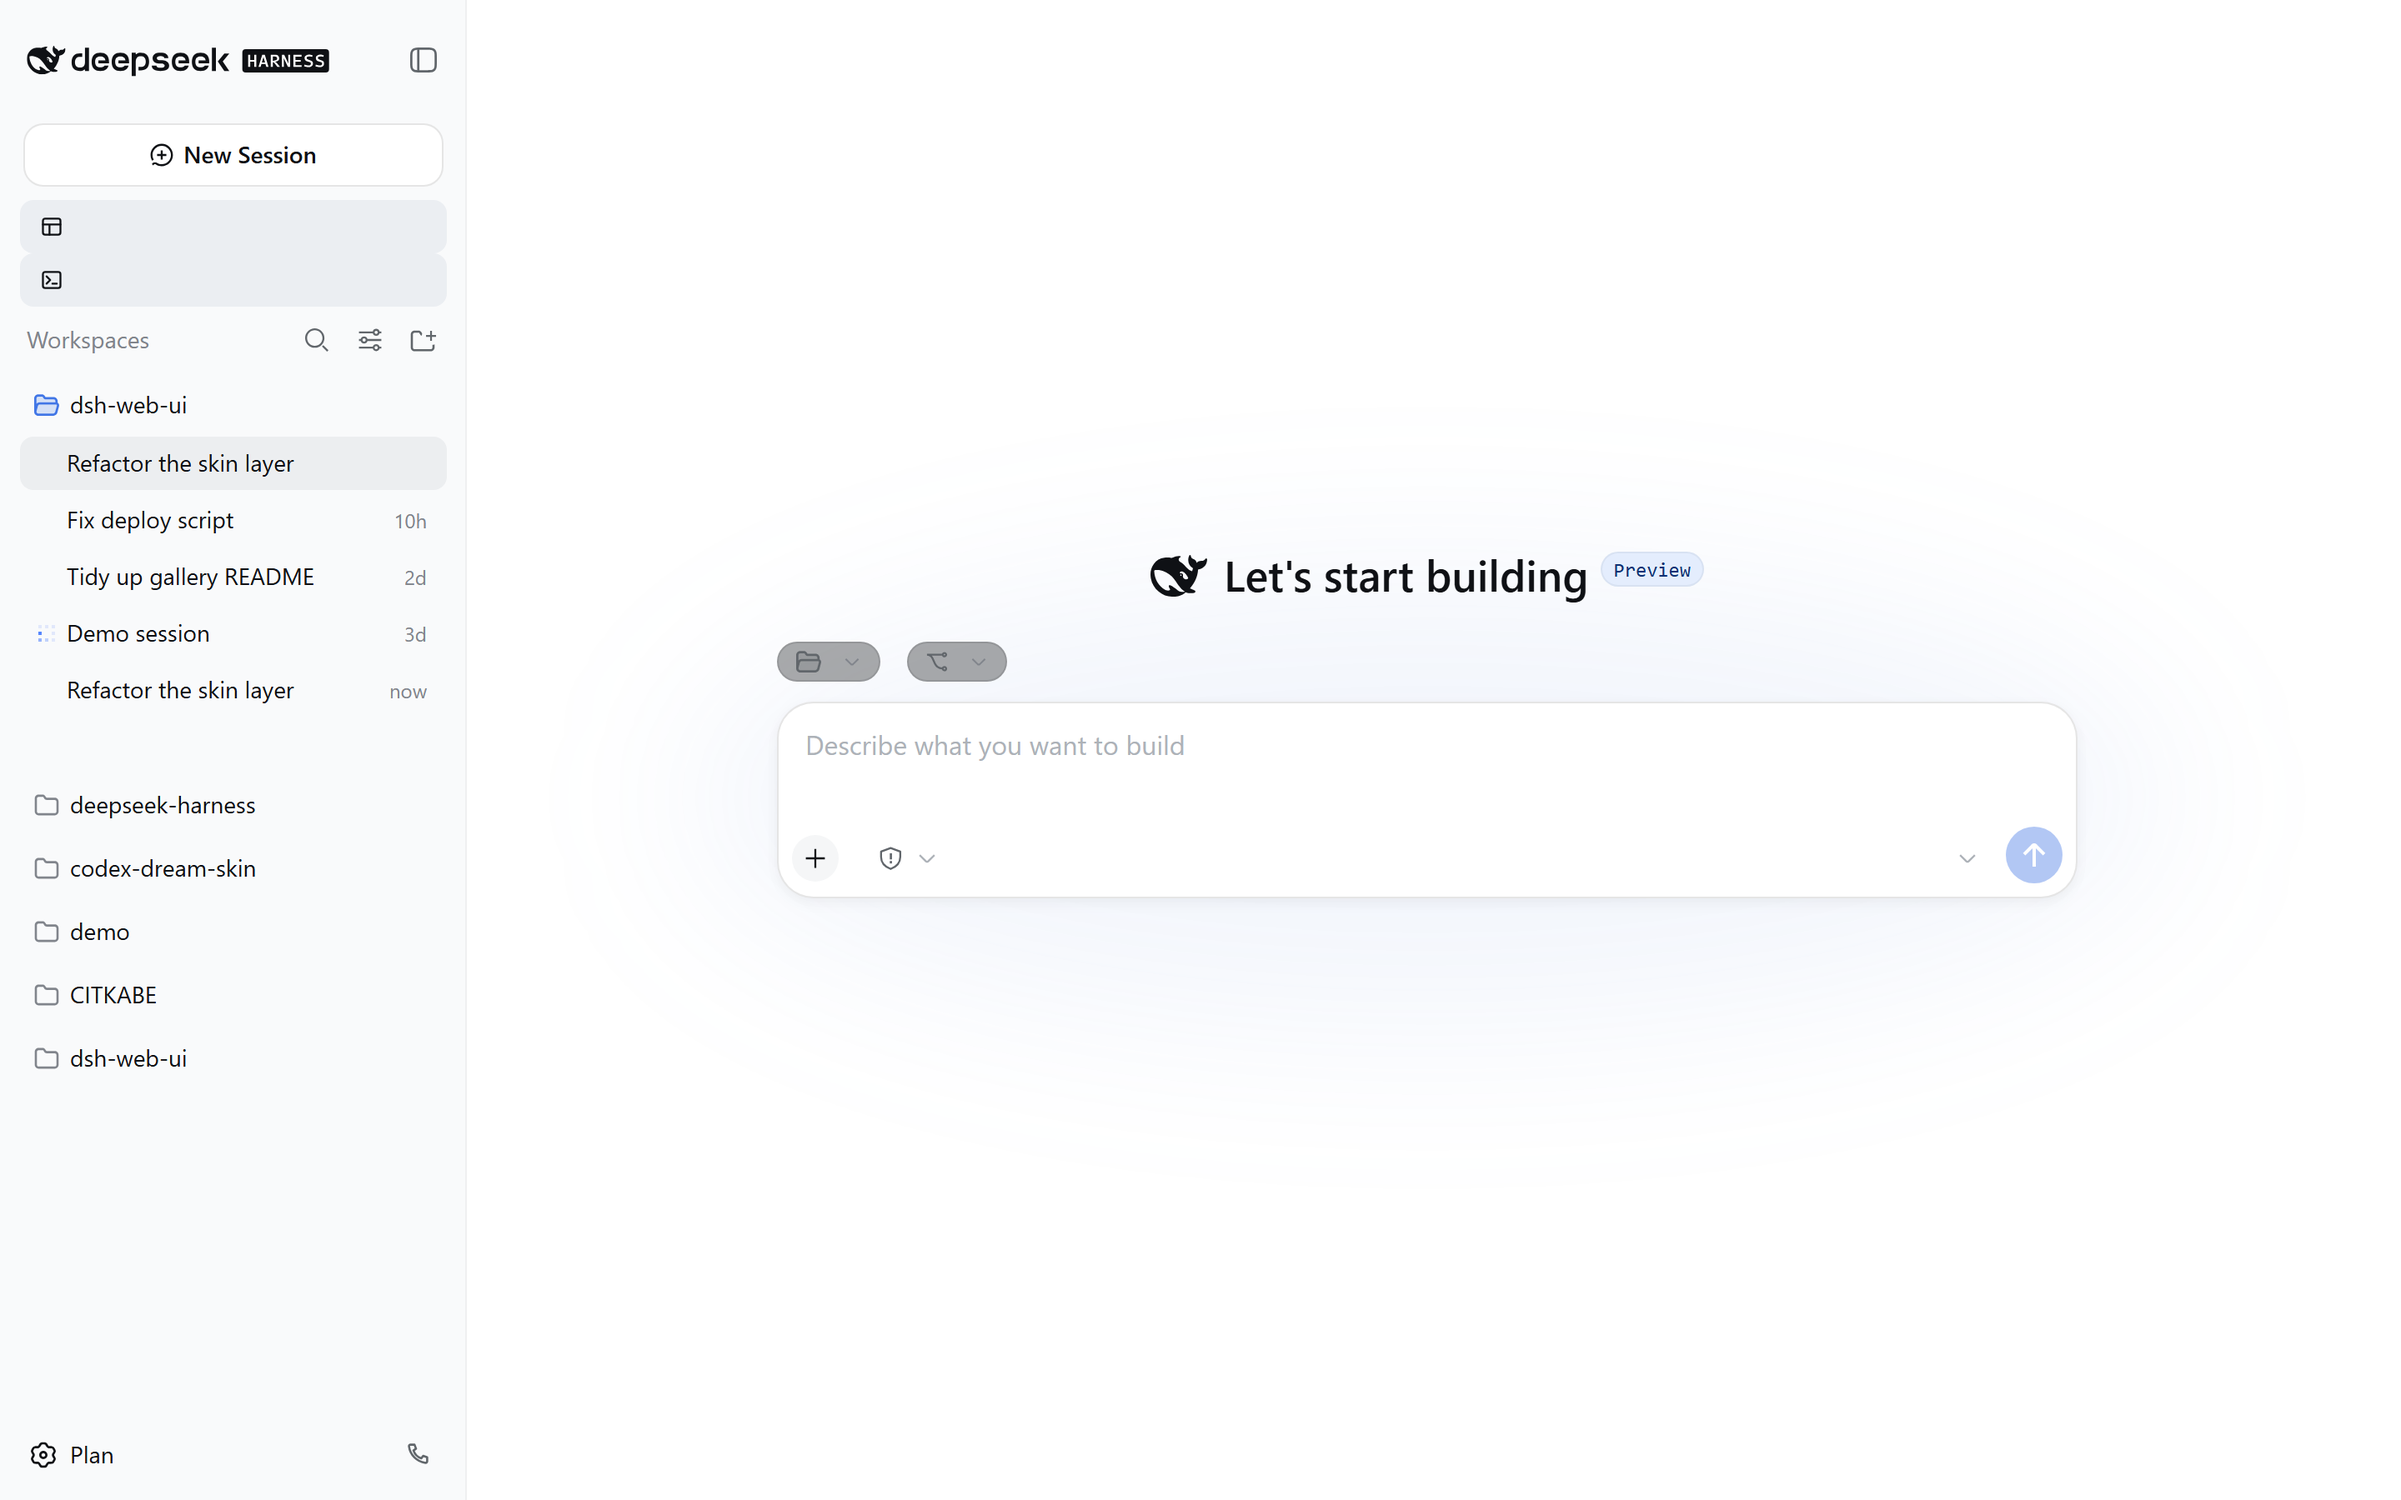
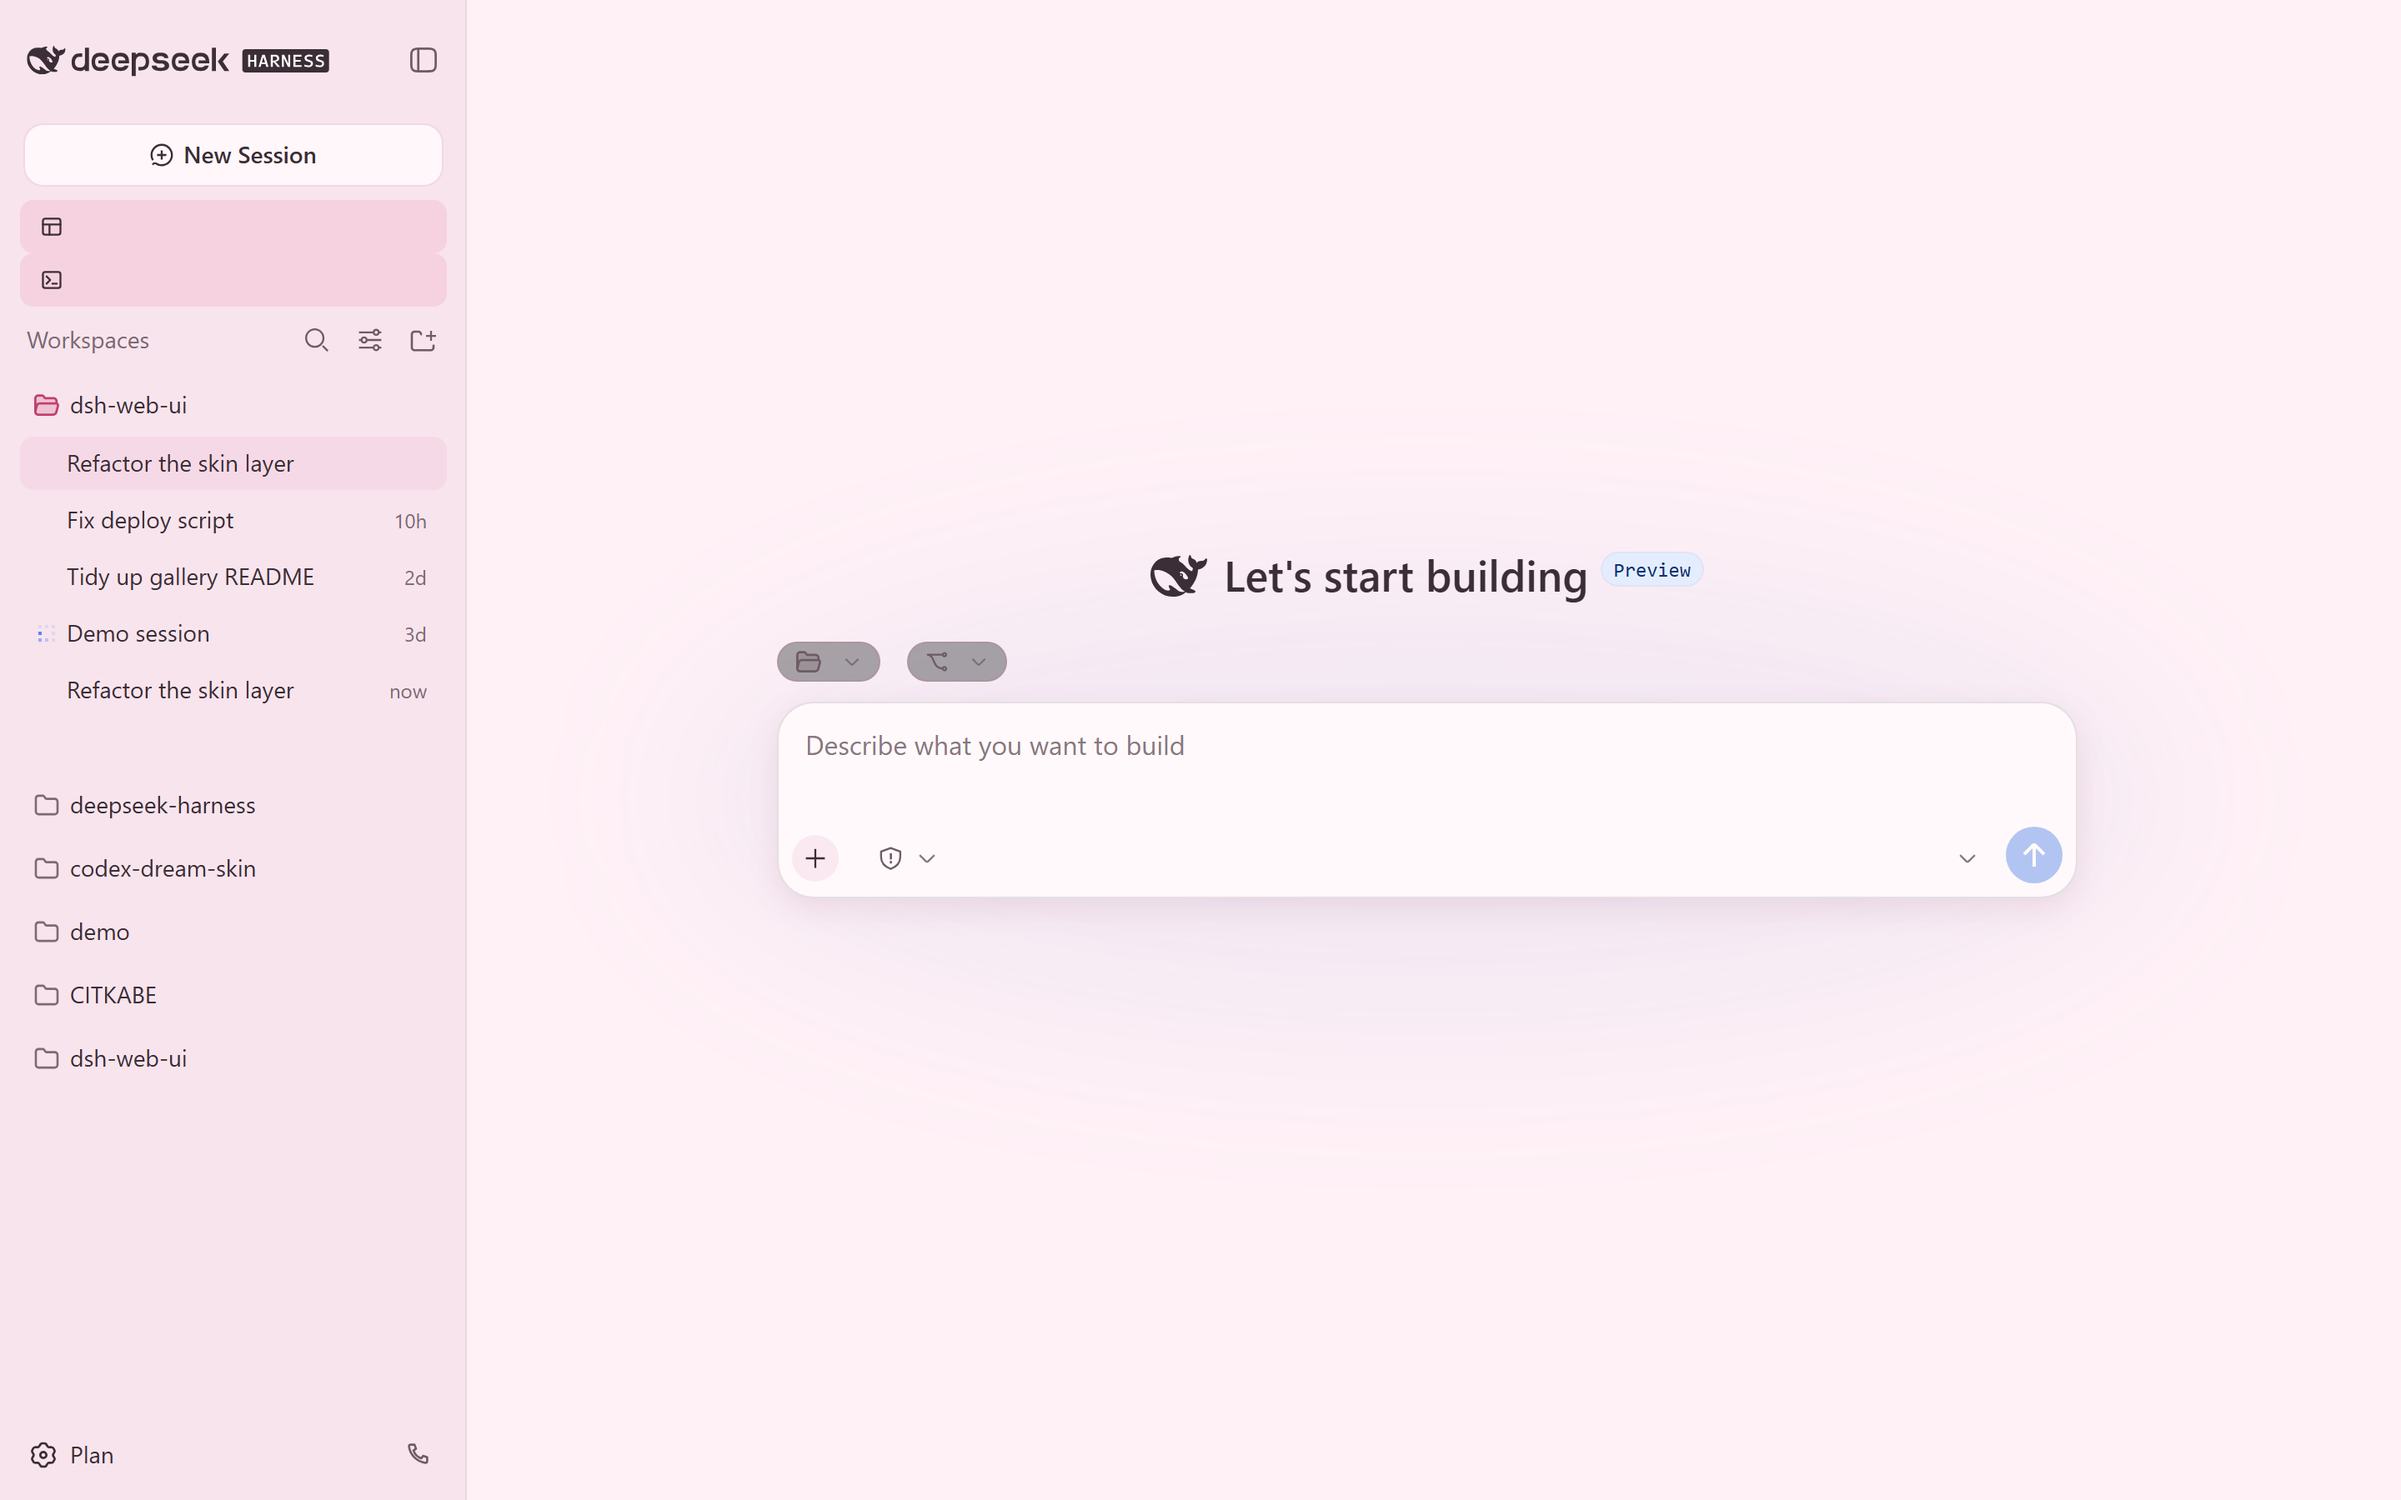
fix(skins): keep Pink Sakura light tokens effective in the static preview
The skin-center loader clones :root theme tokens onto body at inject time,
but gallery/preview.html injects skin.css raw and the official facade
defines its light token sheet on body, so a :root-only light palette
rendered as the default white UI in the gallery previews. Scope the light
tokens to :root + body:not([data-ds-dark-theme]) (body heads are the
official-shell pattern) and re-capture the light preview; gallery
artifacts regenerated.

diff --git a/skins/pink-sakura/skin.css b/skins/pink-sakura/skin.css
@@ -5,7 +5,12 @@
  * attributes owned by Skin Center, avoiding generated class names.
  */
 
-:root {
+/* Light tokens ride both :root and a body-scoped light head: the skin-center
+ * loader clones :root theme tokens onto body, but the static gallery preview
+ * (gallery/preview.html) injects this stylesheet without that transform, and
+ * the official facade defines its light token sheet on body. */
+:root,
+body:not([data-ds-dark-theme]) {
   --pink-sakura-accent: #e95c91;
   --pink-sakura-text: #3b2e36;
   --pink-sakura-panel: #fff7fa;
